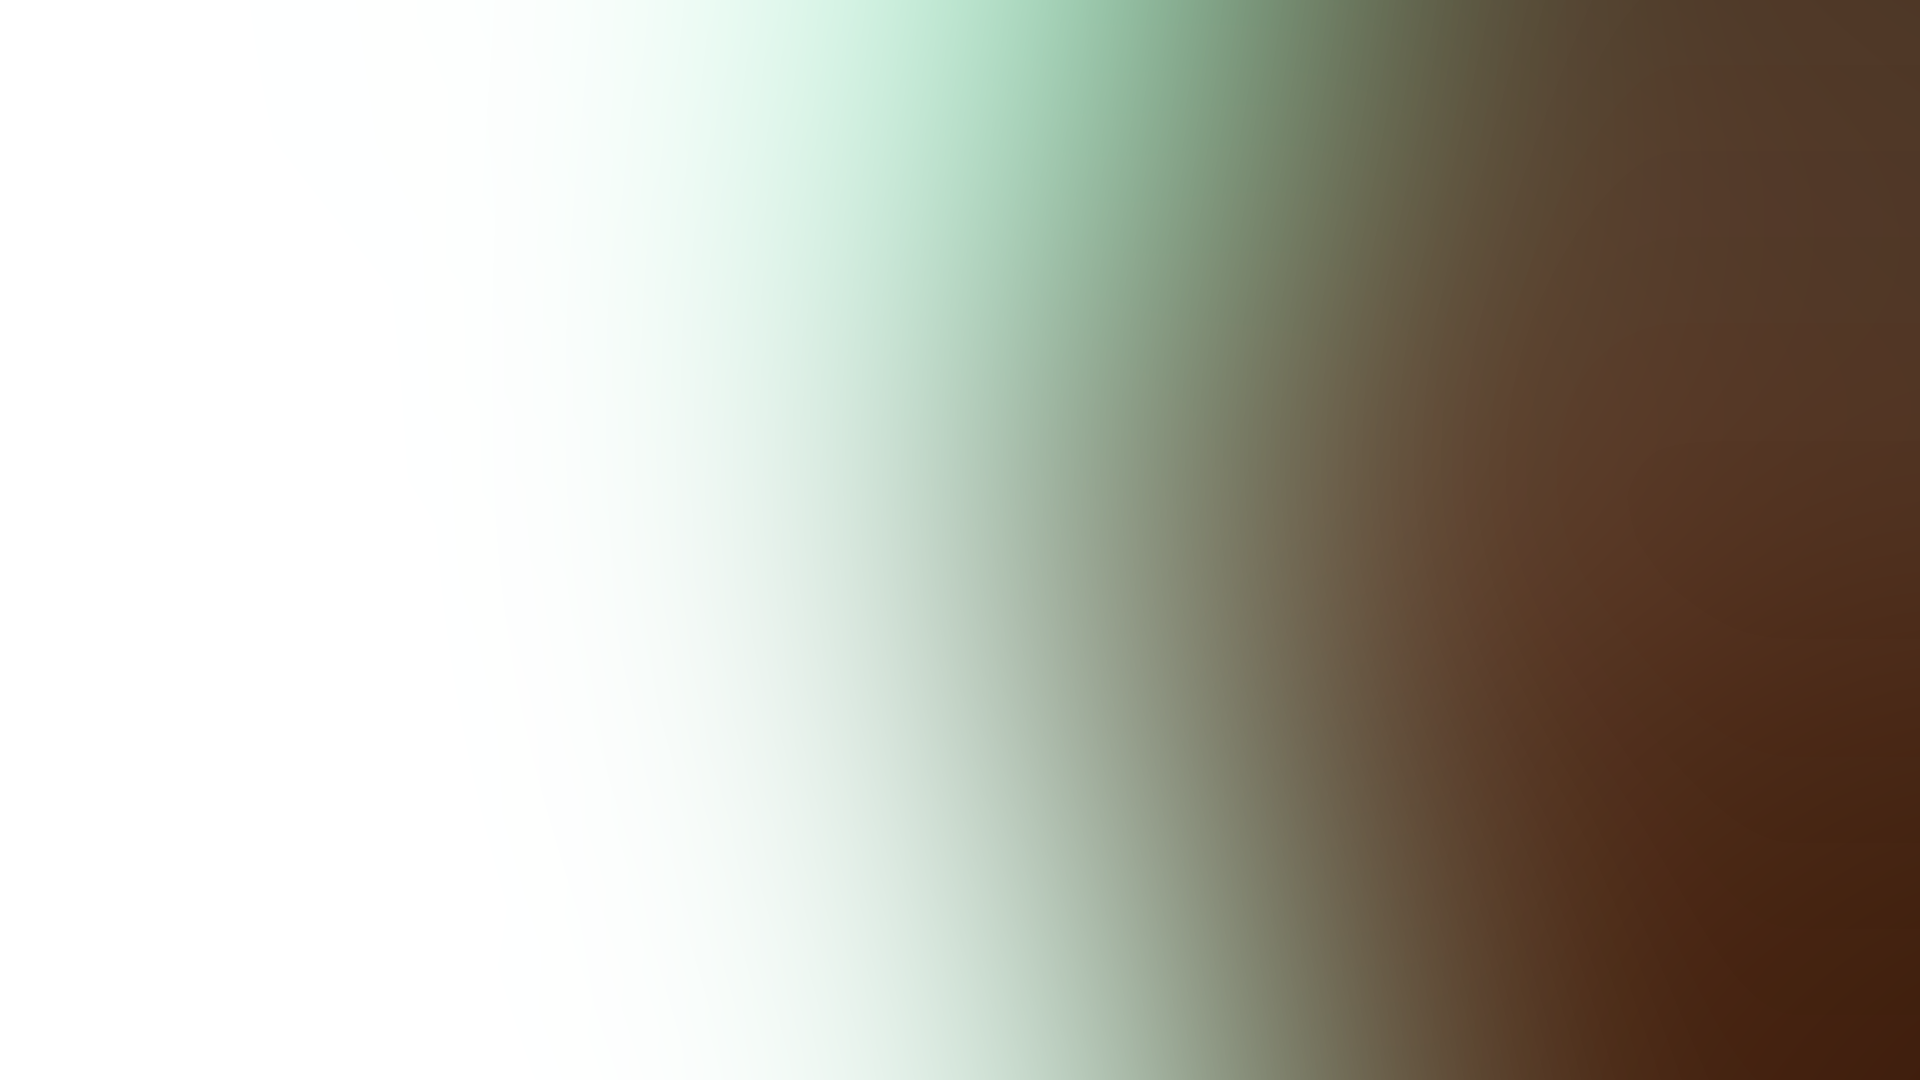
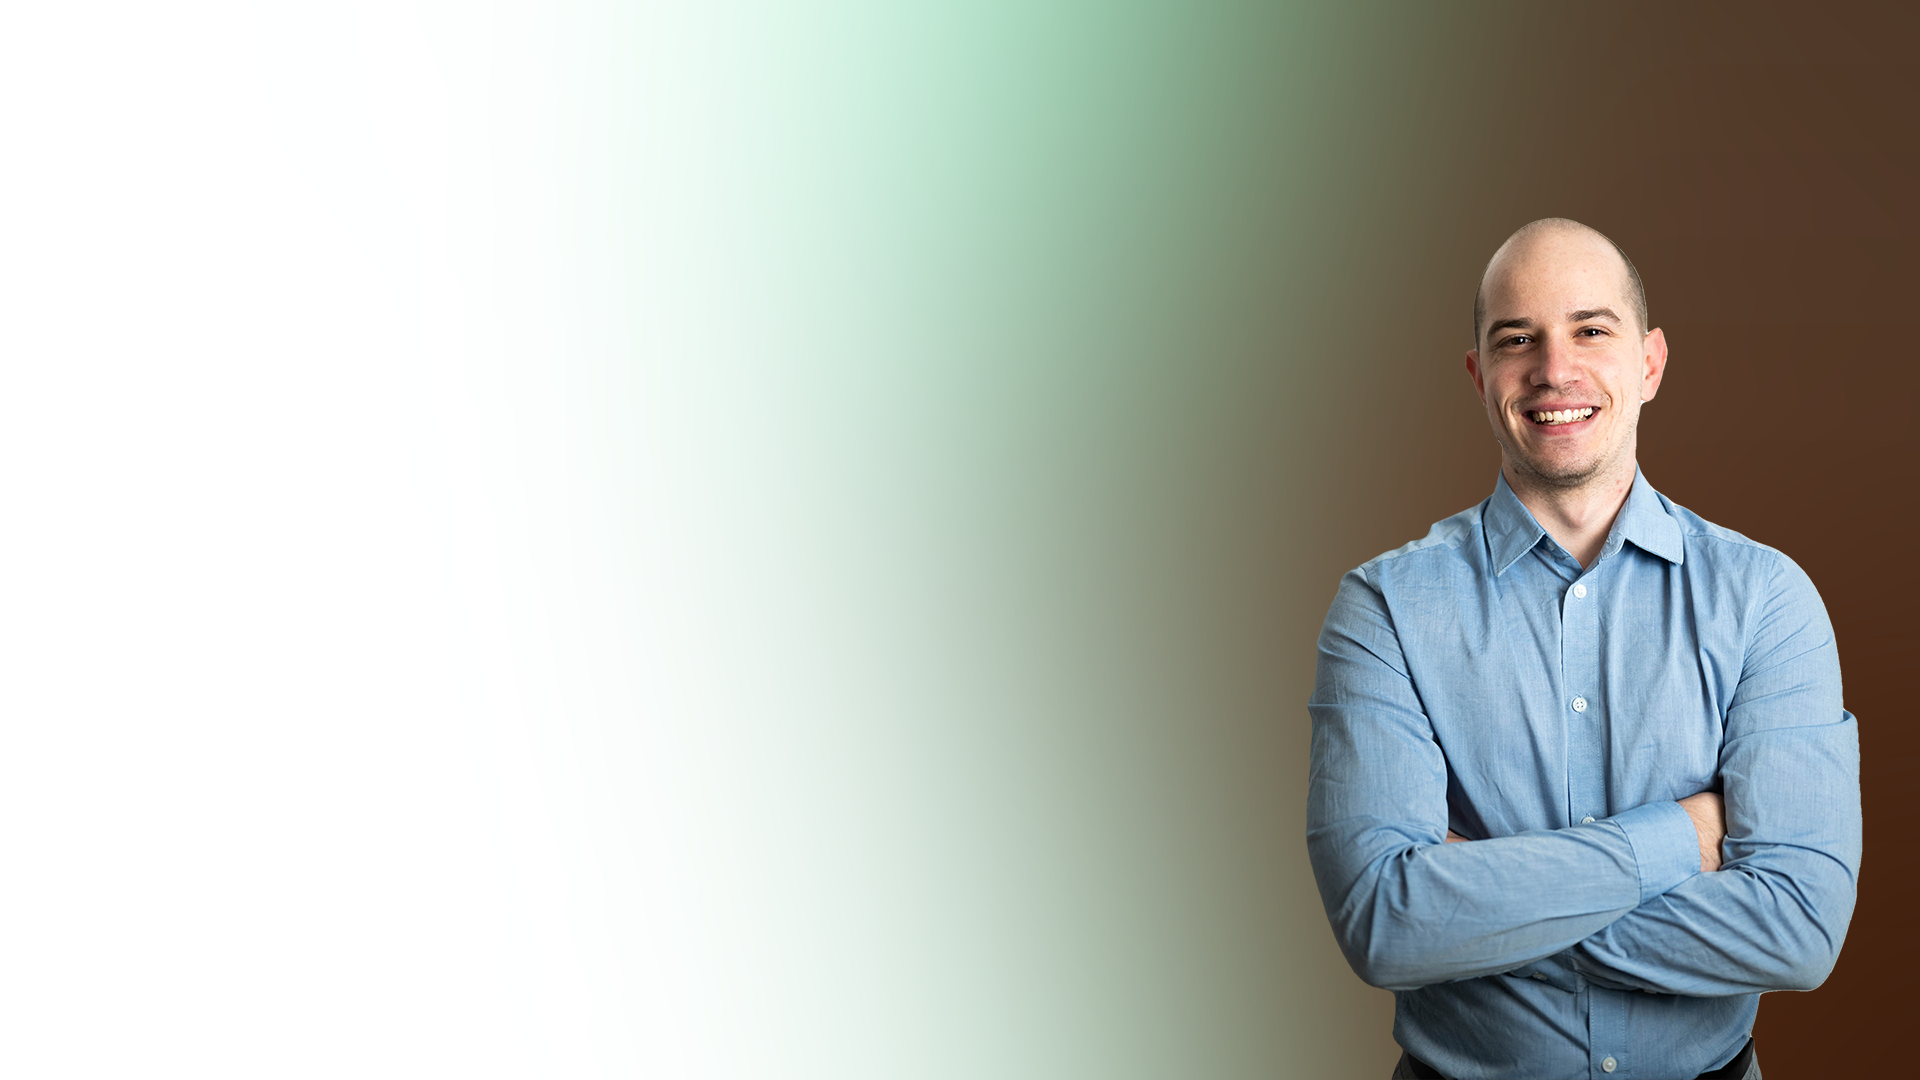
images added
About img adedd
Banner img adedd

Changed region(s): [[0.6562, 0.1833, 0.9688, 1.0]]

diff --git a/index.html b/index.html
@@ -209,8 +209,8 @@
               <div class="col-xl-6 col-lg-6">
                 <div class="tf__about_img tf__about_img_2">
                   <img
-                    src="images/about_img_2.jpg"
-                    alt="ZYAN"
+                    src="images/about_img.jpg"
+                    alt="Vinnai"
                     class="img-fluid w-100">
                   <div class="tf__about_img_text">
                     <i class="fa-sharp fa-solid fa-award"></i>
